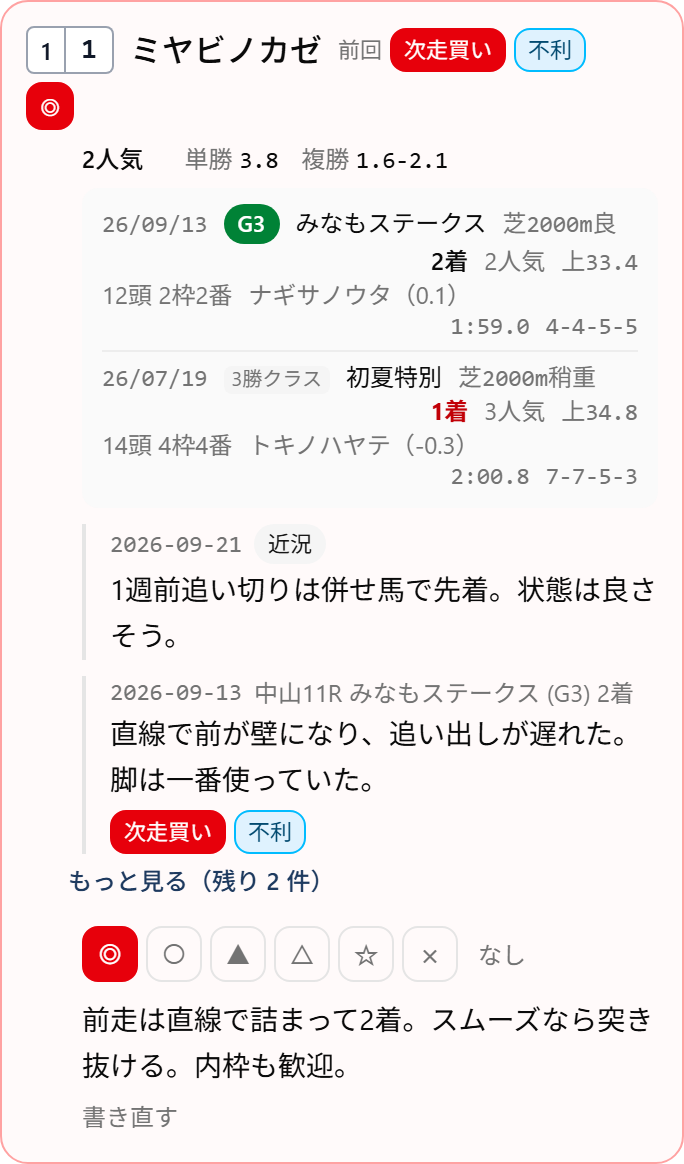
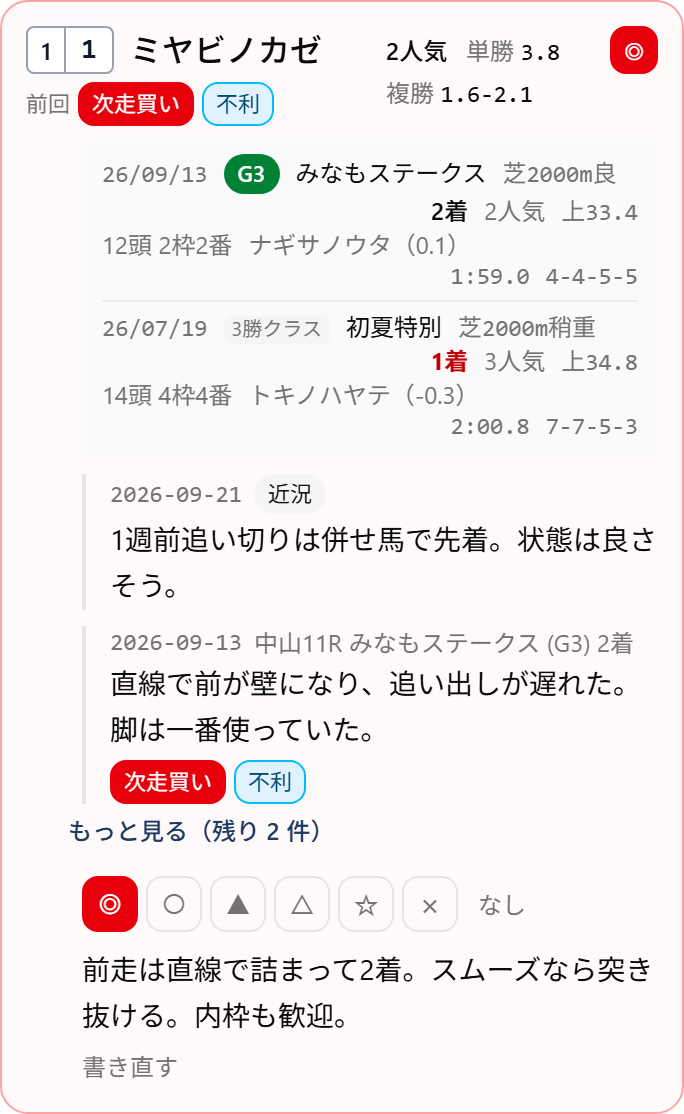
feat: 予想画面のオッズを馬名の行の右端に置き、印の場所を常に取っておく
- 見出しの行を左（札・馬名・騎手・前回の札）と右（オッズ・印）に分け、右は幅を固定して馬ごとに位置をそろえる
- スマホではオッズを2段（人気・単勝／複勝）にする
- 馬番の欄には馬番が無くても title（「馬番未定」）を付ける

diff --git a/src/routes/races/[id]/preview/+page.svelte b/src/routes/races/[id]/preview/+page.svelte
@@ -350,53 +350,66 @@
 							? 'border-red-300 bg-red-50/40'
 							: ''}"
 					>
-						<div class="flex flex-wrap items-center gap-x-2 gap-y-1">
-							<!-- 枠と馬番は1つの札にする（馬番の面は枠の色を薄くしたもの）。ふりかえり画面と
-							     同じ札にして、予想で見た枠と結果で見る枠が別物に見えないようにする。 -->
-							<HorseNumberBadge bracket={r.bracket} horseNumber={r.horseNumber} />
-							<a
-								href={resolve('/horses/[id]', { id: r.horseId })}
-								class="font-medium hover:underline"
-							>
-								{r.horseName}
-							</a>
-							{#if r.jockey}
-								<span class="text-sm text-muted-foreground">{r.jockey}</span>
-							{/if}
-							<!-- この馬について最後に下した結論。16頭を見比べるときは本文まで読めないので、
-							     札だけを見出しに上げる（何を書いたかは下の過去メモにある）。 -->
-							{#if conclusion}
-								<span
-									class="flex items-center gap-1 text-[11px] text-muted-foreground"
-									title="{conclusion.occurredAt} に付けた札"
+						<!-- 見出しの行は左右に分ける。左（札・馬名・騎手・前回の札）は長さで折り返すので、
+						     その中だけで折り返させる。右（オッズと印）は幅を固定して行の右上に置き、
+						     どの馬でも同じ位置に来るようにする（縦に見比べられる）。 -->
+						<div class="flex items-start gap-2">
+							<div class="flex min-w-0 flex-1 flex-wrap items-center gap-x-2 gap-y-1">
+								<!-- 枠と馬番は1つの札にする（馬番の面は枠の色を薄くしたもの）。ふりかえり画面と
+								     同じ札にして、予想で見た枠と結果で見る枠が別物に見えないようにする。 -->
+								<HorseNumberBadge bracket={r.bracket} horseNumber={r.horseNumber} />
+								<a
+									href={resolve('/horses/[id]', { id: r.horseId })}
+									class="font-medium hover:underline"
 								>
-									前回
-									<TagBadges tags={conclusion.tags} />
-								</span>
-							{/if}
-							<span class="flex-1"></span>
-							<MarkBadge mark={r.myPreview?.mark ?? null} />
-						</div>
+									{r.horseName}
+								</a>
+								{#if r.jockey}
+									<span class="text-sm text-muted-foreground">{r.jockey}</span>
+								{/if}
+								<!-- この馬について最後に下した結論。16頭を見比べるときは本文まで読めないので、
+								     札だけを見出しに上げる（何を書いたかは下の過去メモにある）。 -->
+								{#if conclusion}
+									<span
+										class="flex items-center gap-1 text-[11px] text-muted-foreground"
+										title="{conclusion.occurredAt} に付けた札"
+									>
+										前回
+										<TagBadges tags={conclusion.tags} />
+									</span>
+								{/if}
+							</div>
 
-						<!-- オッズは見出しの行に入れず、専用の1行にする。見出しは馬名と騎手の長さで折り返すので、
-						     そこに入れると馬ごとに位置が変わり（mobile では前回の札と同じ行に落ちる）、縦に見比べられない。 -->
-						{#if data.oddsAsOf}
-							<!-- 人気は先頭に置き、幅を固定する（「10人気」まで入る）。取消で人気が無い馬でも、
-							     単勝・複勝の位置が上下の馬とずれないようにするため。 -->
-							<p class="mt-1.5 ml-7 text-xs text-muted-foreground">
-								<span class="inline-block w-12 font-medium text-foreground">
-									{#if r.popularity}{r.popularity}人気{/if}
-								</span>
-								単勝
-								<span class="font-mono font-medium text-foreground">
-									{formatWinOdds(r.odds?.winOdds ?? null)}
-								</span>
-								<span class="ml-2">複勝</span>
-								<span class="font-mono font-medium text-foreground">
-									{formatPlaceOdds(r.odds?.placeOddsMin ?? null, r.odds?.placeOddsMax ?? null)}
-								</span>
-							</p>
-						{/if}
+							<!-- オッズ。人気・単勝・複勝はそれぞれ幅を固定する（「10人気」「単勝 123.4」
+							     「複勝 10.5-20.3」まで入る）。取消で人気や値が無い馬でも、上下の馬と位置がずれない。
+							     スマホでは1行に並べる幅が無いので、人気・単勝の下に複勝を置く2段にする。 -->
+							{#if data.oddsAsOf}
+								<p
+									class="grid shrink-0 grid-cols-[auto_auto] text-xs leading-6 text-muted-foreground sm:flex"
+								>
+									<span class="w-10 font-medium text-foreground">
+										{#if r.popularity}{r.popularity}人気{/if}
+									</span>
+									<span class="w-16">
+										単勝
+										<span class="font-mono font-medium text-foreground">
+											{formatWinOdds(r.odds?.winOdds ?? null)}
+										</span>
+									</span>
+									<span class="col-span-2 leading-4 sm:w-24 sm:leading-6">
+										複勝
+										<span class="font-mono font-medium text-foreground">
+											{formatPlaceOdds(r.odds?.placeOddsMin ?? null, r.odds?.placeOddsMax ?? null)}
+										</span>
+									</span>
+								</p>
+							{/if}
+
+							<!-- 印の場所は、印が無くても取っておく。印の有無でオッズの位置が変わらないように。 -->
+							<span class="flex size-6 shrink-0">
+								<MarkBadge mark={r.myPreview?.mark ?? null} />
+							</span>
+						</div>
 
 						<!-- 馬柱は薄い面に載せて、下に続く「自分のメモ」と見分けられるようにする。
 						     どちらも小さい文字の塊なので、囲いが無いと1つの塊に見える。

diff --git a/src/lib/components/HorseNumberBadge.svelte b/src/lib/components/HorseNumberBadge.svelte
@@ -27,6 +27,8 @@
 	 *
 	 * - 枠が未確定（NULL）で馬番だけあるときは、馬番を色の無い面で出す
 	 * - 枠も馬番も無い（出馬表が出る前）ときは何も出さない
+	 * - 枠があって馬番が無いときは、馬番の欄に `−` を出し、title を「馬番未定」にする。
+	 *   馬番の欄には必ず title を付ける（馬名と見分ける目印にもなる）
 	 *
 	 * 馬番の幅は2桁に合わせて固定する。1頭1行で縦に並べたときに馬名の頭がそろう。
 	 *
@@ -56,7 +58,7 @@
 		</span>
 		<span
 			class="{numberClass} rounded-r border-l-0 {HORSE_NUMBER_CLASS[bracket]}"
-			title={horseNumber ? `${horseNumber}番` : undefined}
+			title={horseNumber ? `${horseNumber}番` : '馬番未定'}
 		>
 			{horseNumber ?? '−'}
 		</span>

diff --git a/src/lib/components/HorseNumberBadge.svelte.spec.ts b/src/lib/components/HorseNumberBadge.svelte.spec.ts
@@ -24,6 +24,12 @@ describe('HorseNumberBadge', () => {
 		await expect.element(screen.getByTitle('5番')).toHaveClass('bg-red-100');
 	});
 
+	it('枠があって馬番が無ければ、馬番の欄は − で「馬番未定」', async () => {
+		const screen = render(HorseNumberBadge, { bracket: 4, horseNumber: null });
+
+		await expect.element(screen.getByTitle('馬番未定')).toHaveTextContent('−');
+	});
+
 	// 枠が決まる前に馬番だけ入ることは無いはずだが、入っても馬番は落とさない。
 	it('枠が無ければ、馬番だけを色の無い面で出す', async () => {
 		const screen = render(HorseNumberBadge, { bracket: null, horseNumber: 7 });
